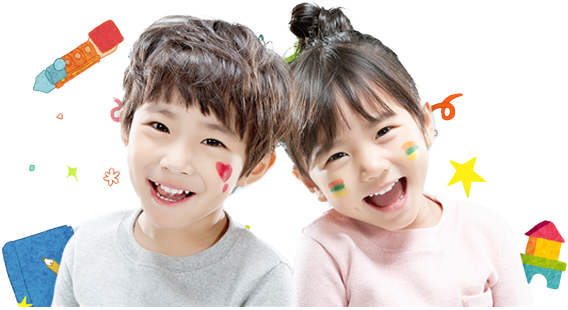
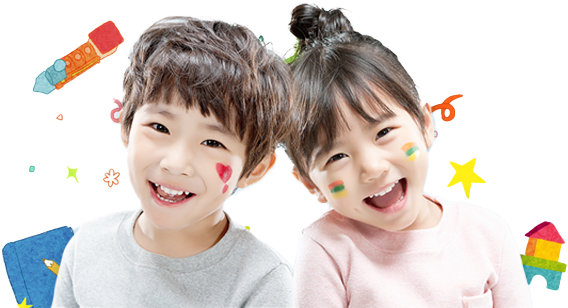
feat : 메인 - 배경이미지 추가 (기획전시)

diff --git a/resources/css/main.scss b/resources/css/main.scss
@@ -447,7 +447,9 @@
 
 // 기획전시
 .main_exhibit {
+  position: relative;
   padding: 5em 0;
+  overflow: hidden;
   color: #fff;
   background-image: url(/resources/images/main/main_exhibit.png);
   background-repeat: no-repeat;
@@ -459,6 +461,22 @@
     top: 0;
     left: 0;
     font-size: 1.1875em;
+  }
+
+  .innerbox {
+    &::before {
+      content: '';
+      display: block;
+      width: 35.5em;
+      height: 19.25em;
+      position: absolute;
+      bottom: -5em;
+      left: -4em;
+      background-image: url(/resources/images/main/exhibit_bg.png);
+      background-repeat: no-repeat;
+      background-size: contain;
+      background-position: center;
+    }
   }
 }
 
@@ -677,7 +695,12 @@
   }
 }
 
-// 반응형
+@media screen and (max-width: 1440px) {
+  .main_exhibit .innerbox::before {
+    left: 0;
+  }
+}
+
 @media screen and (min-width: 721px) and (max-width: 1280px) {
   .guide_items {
     width: 100%;
@@ -694,7 +717,6 @@
     }
   }
 }
-
 
 @media screen and (max-width: 1280px) {
   .main_quickmenu {
@@ -959,6 +981,10 @@
 
     .stt1 {
       font-size: 1.5em;
+    }
+
+    .innerbox::before {
+      display: none;
     }
   }
 

diff --git a/resources/css/main.css b/resources/css/main.css
@@ -390,7 +390,9 @@
 }
 
 .main_exhibit {
+  position: relative;
   padding: 5em 0;
+  overflow: hidden;
   color: #fff;
   background-image: url(/resources/images/main/main_exhibit.png);
   background-repeat: no-repeat;
@@ -402,6 +404,19 @@
   top: 0;
   left: 0;
   font-size: 1.1875em;
+}
+.main_exhibit .innerbox::before {
+  content: "";
+  display: block;
+  width: 35.5em;
+  height: 19.25em;
+  position: absolute;
+  bottom: -5em;
+  left: -4em;
+  background-image: url(/resources/images/main/exhibit_bg.png);
+  background-repeat: no-repeat;
+  background-size: contain;
+  background-position: center;
 }
 
 .exhibit_items {
@@ -584,6 +599,11 @@
   width: 262px;
 }
 
+@media screen and (max-width: 1440px) {
+  .main_exhibit .innerbox::before {
+    left: 0;
+  }
+}
 @media screen and (min-width: 721px) and (max-width: 1280px) {
   .guide_items {
     width: 100%;
@@ -798,6 +818,9 @@
   }
   .main_exhibit .stt1 {
     font-size: 1.5em;
+  }
+  .main_exhibit .innerbox::before {
+    display: none;
   }
   .exhibit_items .exhibit_item .exhibit_item_title {
     width: 100%;
